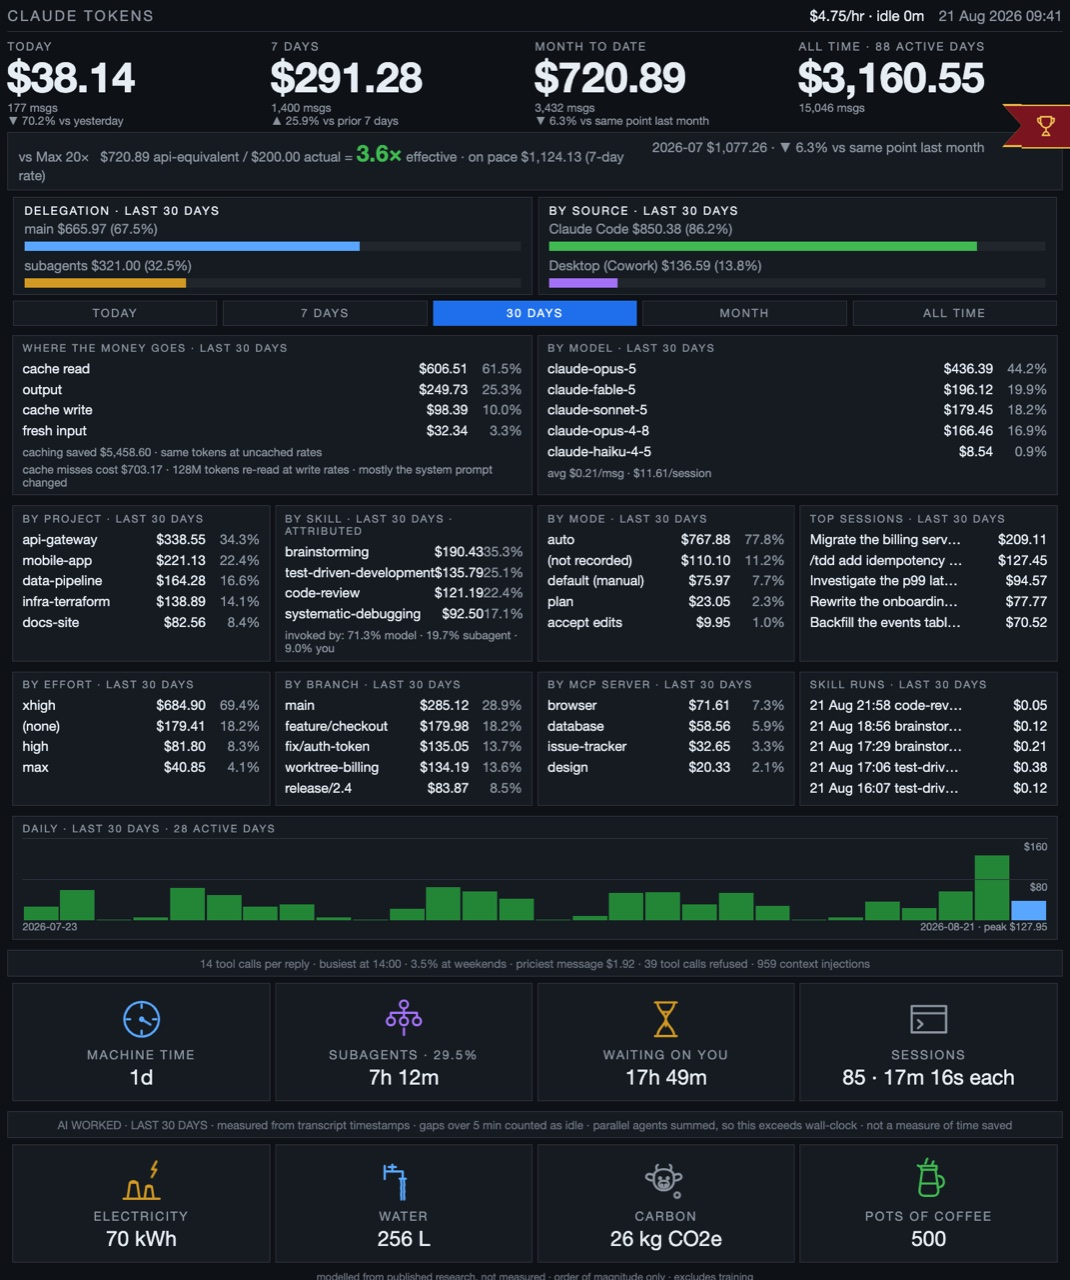
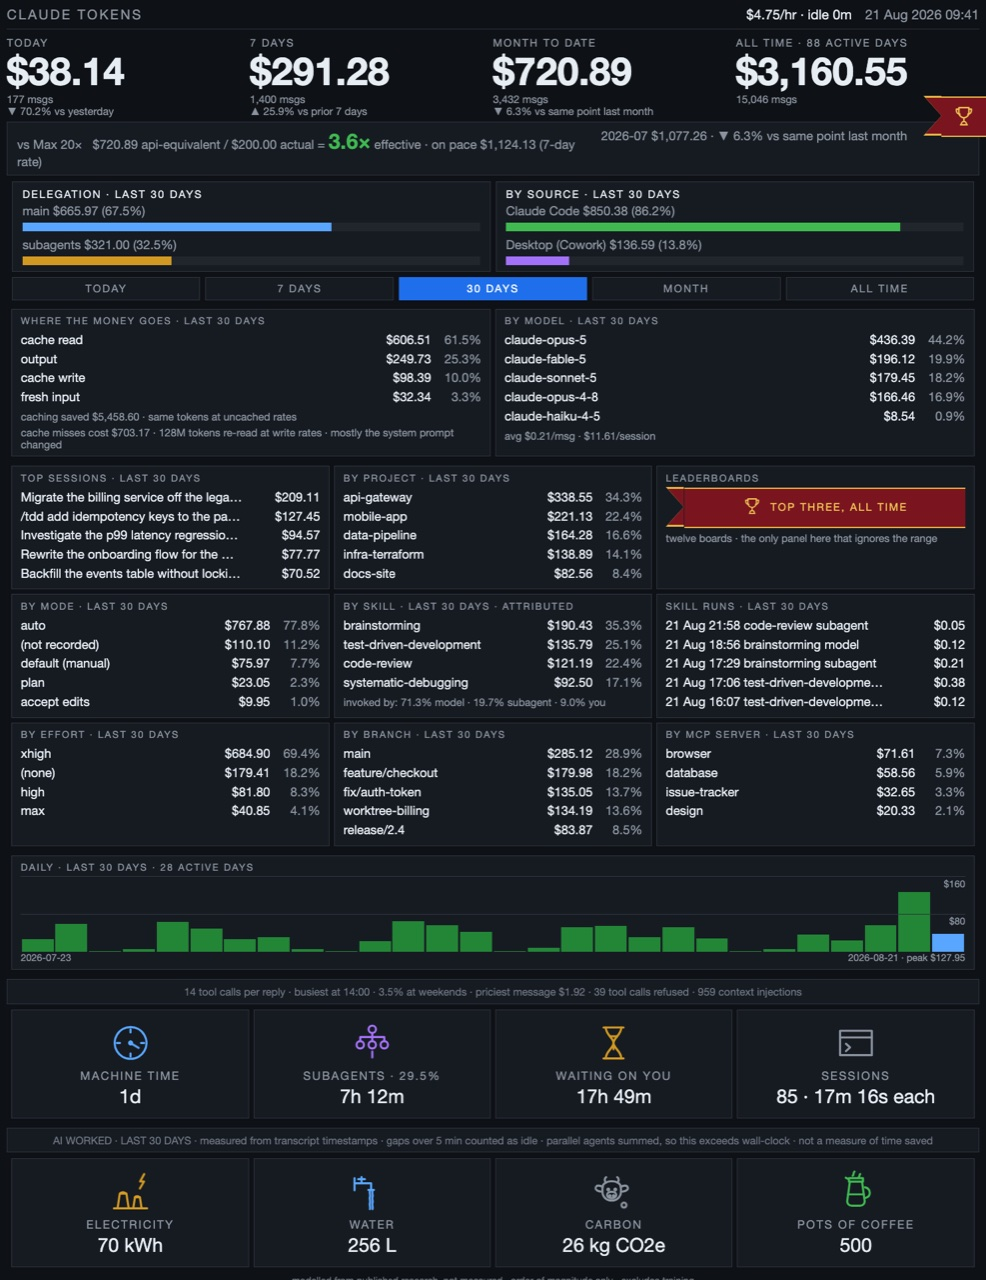
Lay the breakdown panels three to a row
At four across a panel got 230px, and a long branch name plus its amount had
nowhere to go: "worktree-issue-56-60-goal-change $229.80" ran straight into
the BY MCP SERVER panel beside it. Three across gives each panel a third of
the width and the collisions stop.

New order, three rows of three:

    TOP SESSIONS | BY PROJECT | LEADERBOARDS
    BY MODE      | BY SKILL   | SKILL RUNS
    BY EFFORT    | BY BRANCH  | BY MCP SERVER

Eight panels leave a ninth cell, so the leaderboards get a card there: the
same maroon band, swallowtail and trophy as the pinned tab, laid along a
card instead of hanging off the edge. The tab stays — it is reachable at any
scroll position, and the card is where the eye already is once it has read
the panels either side. The tail rules stopped being scoped to `a.ribbon`
now that two elements use them.

Checked by measuring scrollWidth against clientWidth on every cell rather
than by looking: the only cells still wider than their box are TOP SESSIONS
and SKILL RUNS, which truncate with an ellipsis on purpose.

Page grows 1251px -> 1329px.

One test collision worth noting. The card's heading was ALL-TIME
LEADERBOARDS, which is the exact string six tests used to decide whether the
sheet was open — so the closed page started claiming it was open. The card
is now headed LEADERBOARDS, and those tests ask a structural question
instead, `<div class="overlay">`, which is what they meant all along.

517 passing. Both README screenshots regenerated.
[…]

diff --git a/tests/fixtures/golden_dashboard.html b/tests/fixtures/golden_dashboard.html
@@ -165,14 +165,24 @@ a.ribbon .rtrophy { display:block; margin:6px auto 0 auto; }
    holding it at 2px along the slope would put a step back at the join. The
    join is the part the eye lands on, so that is the one that is kept honest.
    Both sit to the left of the band, hence the negative placement. */
-a.ribbon .tailedge { position:absolute; left:-19px; top:-2px;
-                     width:0; height:0; border-left:19px solid transparent;
-                     border-top:21px solid #e3b341;
-                     border-bottom:21px solid #e3b341; }
-a.ribbon .tail { position:absolute; left:-17px; top:0;
-                 width:0; height:0; border-left:17px solid transparent;
-                 border-top:19px solid #7a1520;
-                 border-bottom:19px solid #7a1520; }
+.tailedge { position:absolute; left:-19px; top:-2px;
+            width:0; height:0; border-left:19px solid transparent;
+            border-top:21px solid #e3b341; border-bottom:21px solid #e3b341; }
+.tail { position:absolute; left:-17px; top:0;
+        width:0; height:0; border-left:17px solid transparent;
+        border-top:19px solid #7a1520; border-bottom:19px solid #7a1520; }
+/* The same band as a panel in the grid, so the boards are reachable while
+   reading the breakdowns and not only from the pinned tab. Both are 42px
+   outer with 2px edges, which is why one set of tail rules serves both —
+   the numbers above are the band's geometry, not the tab's. The left margin
+   is the tail's own width, so it has somewhere to sit inside the card. */
+a.boardsband { position:relative; display:block; margin:2px 0 0 19px;
+               height:42px; line-height:38px; text-align:center;
+               background:#7a1520;
+               border-top:2px solid #e3b341; border-bottom:2px solid #e3b341;
+               color:#f0c352; font-size:11px; letter-spacing:1.5px;
+               text-decoration:none; white-space:nowrap; }
+.btrophy { vertical-align:-6px; margin-right:8px; }
 /* Translucent rather than opaque, so the dashboard stays faintly visible
    underneath and the sheet reads as sitting on top of it rather than as a
    different page. */
@@ -264,19 +274,21 @@ $41.15/session</div><div class="note">1 unpriced model(s), counted but not coste
 </tbody></table>
 <table class="grid"><tbody>
 <tr>
+<td><h2>TOP SESSIONS &middot; LAST 30 DAYS</h2><table class="srows"><tr><td class="stitle">/graphify refactor billing</td><td class="amt">$220.00</td></tr><tr><td class="stitle">(untitled session)</td><td class="amt">$80.00</td></tr></table></td>
 <td><h2>BY PROJECT &middot; LAST 30 DAYS</h2><table class="rows"><tr><td>alpha</td><td class="amt">$600.00</td><td class="pct">60.0%</td><td class="barcell"><div class="bar"><div class="fill" style="width:60.0%;background:#58a6ff"></div></div></td></tr><tr><td>beta</td><td class="amt">$400.00</td><td class="pct">40.0%</td><td class="barcell"><div class="bar"><div class="fill" style="width:40.0%;background:#d29922"></div></div></td></tr></table></td>
+<td><h2>LEADERBOARDS</h2><a class="boardsband" href="?boards=open"><span class="tailedge"></span><span class="tail"></span><svg class="btrophy" width="22" height="22" viewBox="0 0 24 24" fill="none" stroke="#f0c352" stroke-width="1.4" stroke-linecap="round" stroke-linejoin="round" aria-hidden="true"><path d="M7.2 3.8h9.6v4.8a4.8 4.8 0 0 1-9.6 0z"/><path d="M7.2 5.2H4.8v1.5A3.4 3.4 0 0 0 8.2 10M16.8 5.2h2.4v1.5A3.4 3.4 0 0 1 15.8 10"/><path d="M12 13.4v3.2M8.8 20.2h6.4M9.4 20.2c0-1.9 1.1-3.2 2.6-3.2s2.6 1.3 2.6 3.2"/></svg>TOP THREE, ALL TIME</a>
+<div class="note">twelve boards &middot; the only panel here that ignores the range</div></td>
+</tr>
+<tr>
+<td><h2>BY MODE &middot; LAST 30 DAYS</h2><div class="note">no data yet</div></td>
 <td><h2>BY SKILL &middot; LAST 30 DAYS &middot; ATTRIBUTED</h2><table class="rows"><tr><td>graphify</td><td class="amt">$550.00</td><td class="pct">55.0%</td><td class="barcell"><div class="bar"><div class="fill" style="width:55.0%;background:#58a6ff"></div></div></td></tr><tr><td>code-review</td><td class="amt">$450.00</td><td class="pct">45.0%</td><td class="barcell"><div class="bar"><div class="fill" style="width:45.0%;background:#d29922"></div></div></td></tr></table>
 </td>
-<td><h2>BY MODE &middot; LAST 30 DAYS</h2><div class="note">no data yet</div></td>
-<td><h2>TOP SESSIONS &middot; LAST 30 DAYS</h2><table class="srows"><tr><td class="stitle">/graphify refactor billing</td><td class="amt">$220.00</td></tr><tr><td class="stitle">(untitled session)</td><td class="amt">$80.00</td></tr></table></td>
+<td><h2>SKILL RUNS &middot; LAST 30 DAYS</h2><div class="note">no skill runs yet</div></td>
 </tr>
-</tbody></table>
-<table class="grid"><tbody>
 <tr>
 <td><h2>BY EFFORT &middot; LAST 30 DAYS</h2><div class="note">no data yet</div></td>
 <td><h2>BY BRANCH &middot; LAST 30 DAYS</h2><div class="note">no data yet</div></td>
 <td><h2>BY MCP SERVER &middot; LAST 30 DAYS</h2><div class="note">no data yet</div></td>
-<td><h2>SKILL RUNS &middot; LAST 30 DAYS</h2><div class="note">no skill runs yet</div></td>
 </tr>
 </tbody></table>
 <table class="grid"><tbody>

diff --git a/dashboard/render_html.py b/dashboard/render_html.py
@@ -184,14 +184,24 @@ a.ribbon .rtrophy { display:block; margin:6px auto 0 auto; }
    holding it at 2px along the slope would put a step back at the join. The
    join is the part the eye lands on, so that is the one that is kept honest.
    Both sit to the left of the band, hence the negative placement. */
-a.ribbon .tailedge { position:absolute; left:-19px; top:-2px;
-                     width:0; height:0; border-left:19px solid transparent;
-                     border-top:21px solid #e3b341;
-                     border-bottom:21px solid #e3b341; }
-a.ribbon .tail { position:absolute; left:-17px; top:0;
-                 width:0; height:0; border-left:17px solid transparent;
-                 border-top:19px solid #7a1520;
-                 border-bottom:19px solid #7a1520; }
+.tailedge { position:absolute; left:-19px; top:-2px;
+            width:0; height:0; border-left:19px solid transparent;
+            border-top:21px solid #e3b341; border-bottom:21px solid #e3b341; }
+.tail { position:absolute; left:-17px; top:0;
+        width:0; height:0; border-left:17px solid transparent;
+        border-top:19px solid #7a1520; border-bottom:19px solid #7a1520; }
+/* The same band as a panel in the grid, so the boards are reachable while
+   reading the breakdowns and not only from the pinned tab. Both are 42px
+   outer with 2px edges, which is why one set of tail rules serves both —
+   the numbers above are the band's geometry, not the tab's. The left margin
+   is the tail's own width, so it has somewhere to sit inside the card. */
+a.boardsband { position:relative; display:block; margin:2px 0 0 19px;
+               height:42px; line-height:38px; text-align:center;
+               background:#7a1520;
+               border-top:2px solid #e3b341; border-bottom:2px solid #e3b341;
+               color:#f0c352; font-size:11px; letter-spacing:1.5px;
+               text-decoration:none; white-space:nowrap; }
+.btrophy { vertical-align:-6px; margin-right:8px; }
 /* Translucent rather than opaque, so the dashboard stays faintly visible
    underneath and the sheet reads as sitting on top of it rather than as a
    different page. */
@@ -1105,6 +1115,24 @@ def _ribbon(view: RangeView, base_path: str) -> str:
     )
 
 
+def _boards_card(view: RangeView, base_path: str) -> str:
+    """The leaderboards as a panel in the grid, beside the pinned tab.
+
+    Two routes to the same place on purpose: the tab stays reachable at any
+    scroll position, and the card is where the eye already is when it has
+    just finished reading the breakdowns either side of it.
+    """
+    href = _page_href(base_path, view.key, boards=True)
+    return (
+        f'<a class="boardsband" href="{escape(href)}">'
+        '<span class="tailedge"></span><span class="tail"></span>'
+        '<svg class="btrophy" width="22" height="22" viewBox="0 0 24 24" '
+        'fill="none" stroke="#f0c352" stroke-width="1.4" stroke-linecap="round" '
+        f'stroke-linejoin="round" aria-hidden="true">{_TROPHY}</svg>'
+        "TOP THREE, ALL TIME</a>"
+    )
+
+
 def _leaderboards(boards, columns: int) -> str:
     """The boards laid out `columns` to a row, for the sheet.
 
@@ -1264,19 +1292,21 @@ def render(
 </tbody></table>
 <table class="grid"><tbody>
 <tr>
+<td><h2>TOP SESSIONS &middot; {escape(view.label)}</h2>{_session_rows(view.top_sessions)}</td>
 <td><h2>BY PROJECT &middot; {escape(view.label)}</h2>{_rows(view.by_project)}</td>
+<td><h2>LEADERBOARDS</h2>{_boards_card(view, base_path)}
+<div class="note">twelve boards &middot; the only panel here that ignores the range</div></td>
+</tr>
+<tr>
+<td><h2>BY MODE &middot; {escape(view.label)}</h2>{_rows(view.by_mode)}</td>
 <td><h2>BY SKILL &middot; {escape(view.label)} &middot; ATTRIBUTED</h2>{_rows(view.by_skill)}
 {_origin_note(view)}</td>
-<td><h2>BY MODE &middot; {escape(view.label)}</h2>{_rows(view.by_mode)}</td>
-<td><h2>TOP SESSIONS &middot; {escape(view.label)}</h2>{_session_rows(view.top_sessions)}</td>
+<td><h2>SKILL RUNS &middot; {escape(view.label)}</h2>{_skill_runs(view.skill_runs)}</td>
 </tr>
-</tbody></table>
-<table class="grid"><tbody>
 <tr>
 <td><h2>BY EFFORT &middot; {escape(view.label)}</h2>{_rows(view.by_effort)}</td>
 <td><h2>BY BRANCH &middot; {escape(view.label)}</h2>{_rows(view.by_branch)}</td>
 <td><h2>BY MCP SERVER &middot; {escape(view.label)}</h2>{_rows(view.by_mcp)}</td>
-<td><h2>SKILL RUNS &middot; {escape(view.label)}</h2>{_skill_runs(view.skill_runs)}</td>
 </tr>
 </tbody></table>
 <table class="grid"><tbody>

diff --git a/tests/test_render_html.py b/tests/test_render_html.py
@@ -679,8 +679,10 @@ def test_axis_labels_drop_the_cents():
 def test_the_three_breakdowns_share_a_row_and_the_chart_spans_the_width():
     data = aggregate.build([rec("m1", "2026-07-30")], {}, now=NOW)
     out = render_html.render(data)
-    assert "</td>\n<td><h2>BY SKILL" in out
-    assert "</td>\n<td><h2>TOP SESSIONS" in out
+    # Three to a row, in the order the panels are meant to read.
+    assert "</td>\n<td><h2>BY PROJECT" in out
+    assert "</td>\n<td><h2>SKILL RUNS" in out
+    assert "</td>\n<td><h2>BY MCP SERVER" in out
     # The chart is alone in the last grid table, so it spans the full
     # width. The leaderboards are grid tables too, but they live in the
     # sheet, which is not rendered unless it is asked for.
@@ -758,7 +760,6 @@ def test_no_leaderboards_means_no_sheet_even_when_asked_for_one():
     out = render_html.render(
         dataclasses.replace(_golden_data(), leaderboards=[]), boards_open=True
     )
-    assert "ALL-TIME LEADERBOARDS" not in out
     assert '<div class="overlay">' not in out
 
 
@@ -802,8 +803,10 @@ def test_the_ribbon_is_always_there_and_the_sheet_is_not():
     page height they used to cost."""
     closed = render_html.render(_golden_data())
     assert 'class="ribbon"' in closed
+    assert 'class="boardsband"' in closed, "the grid card is always there too"
+    # Whether the sheet is open is a structural question, not a wording one:
+    # the grid card carries the word LEADERBOARDS on the closed page.
     assert '<div class="overlay">' not in closed
-    assert "ALL-TIME LEADERBOARDS" not in closed
 
     opened = render_html.render(_golden_data(), boards_open=True)
     assert 'class="ribbon"' in opened

diff --git a/tests/test_web.py b/tests/test_web.py
@@ -547,15 +547,16 @@ def test_the_server_still_rejects_a_genuinely_wrong_token(server):
 
 def test_the_query_string_opens_the_leaderboard_sheet(tmp_path):
     app = make_app(tmp_path)
-    assert "ALL-TIME LEADERBOARDS" not in app.page()
-    assert "ALL-TIME LEADERBOARDS" in app.page(None, "open")
+    # Structural, not wording: the grid card says LEADERBOARDS either way.
+    assert '<div class="overlay">' not in app.page()
+    assert '<div class="overlay">' in app.page(None, "open")
 
 
 def test_any_other_value_leaves_the_sheet_shut(tmp_path):
     """A stale or half-typed bookmark must not half-open anything."""
     app = make_app(tmp_path)
     for value in ("", "1", "true", "OPEN", "closed"):
-        assert "ALL-TIME LEADERBOARDS" not in app.page(None, value), value
+        assert '<div class="overlay">' not in app.page(None, value), value
 
 
 def test_the_sheet_and_the_range_are_independent(tmp_path):
@@ -563,7 +564,7 @@ def test_the_sheet_and_the_range_are_independent(tmp_path):
     boards are all-time either way."""
     page = make_app(tmp_path).page("7d", "open")
     assert "LAST 7 DAYS" in page
-    assert "ALL-TIME LEADERBOARDS" in page
+    assert '<div class="overlay">' in page
 
 
 def test_opening_the_sheet_does_not_trigger_a_fresh_scan(tmp_path):

diff --git a/README.md b/README.md
@@ -147,8 +147,10 @@ properties, no `rem` units and no usable ES5 — so the layout is tables and
 that as a compatibility lint, so it cannot quietly regress. If it renders
 there, it renders anywhere.
 
-The page is laid out for a width of **1024** and is **1251px tall**, measured
-in a 1024-wide frame rather than estimated. Everything down to and including
+The page is laid out for a width of **1024** and is **1329px tall**, measured
+in a 1024-wide frame rather than estimated. The breakdown panels run three to
+a row rather than four: at four, a long branch name and its amount had
+nowhere to go and ran into the panel beside it. Everything down to and including
 the daily chart fits a 1024×768 screen; the two card rows — machine time and
 footprint — need a short scroll.
 

diff --git a/CONTEXT.md b/CONTEXT.md
@@ -84,9 +84,10 @@ with it but is not a placing — the earliest start under the latest nights.
 
 ## Sheet
 
-The overlay the leaderboards live in, opened by the **ribbon** — the trophy tab
-pinned 100px down the right edge — and closed by the CLOSE control or by
-tapping the scrim behind it.
+The overlay the leaderboards live in, opened either by the **ribbon** — the
+trophy tab pinned 100px down the right edge — or by the LEADERBOARDS panel in
+the grid, which is the same band and tail laid along a card. Closed by the
+CLOSE control or by tapping the scrim behind it.
 
 Open or closed is view state, and it travels in the query string
 (`?boards=open`) exactly as the selected range does. Not a CSS or JavaScript
